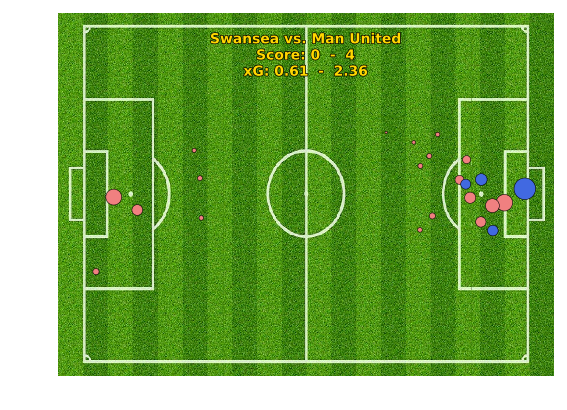
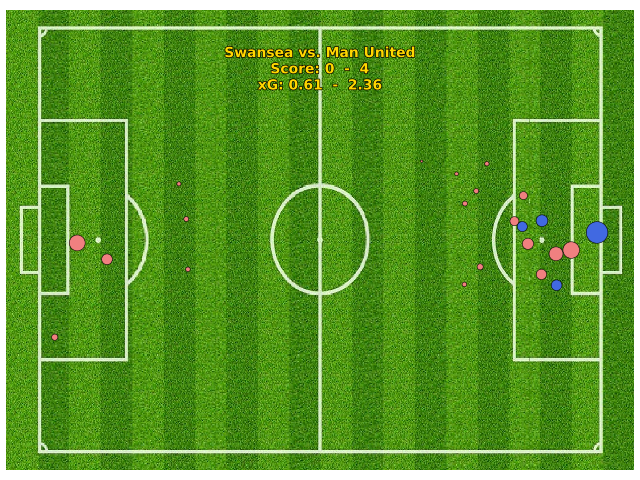
added gitignore

diff --git a/plotting_xGmap_(17-18).py b/plotting_xGmap_(17-18).py
@@ -84,7 +84,9 @@ text = plt.text(240, 120, home_team + ' vs. ' + away_team + '\n'
 text.set_path_effects([path_effects.Stroke(linewidth=1, foreground='black'),
                        path_effects.Normal()])
 
+plt.subplots_adjust(left=0.01, bottom=0.01, right=0.99, top=0.99,
+                wspace=None, hspace=None)
 plt.axis('off')
 plt.savefig('./xG Plots/17-18/' + home_team + '-' + away_team + ' ' + date.strftime("%Y-%m-%d") + '.png',
-            bbox_inches='tight')
+            bbox_inches=0, pad_inches=0)
 
